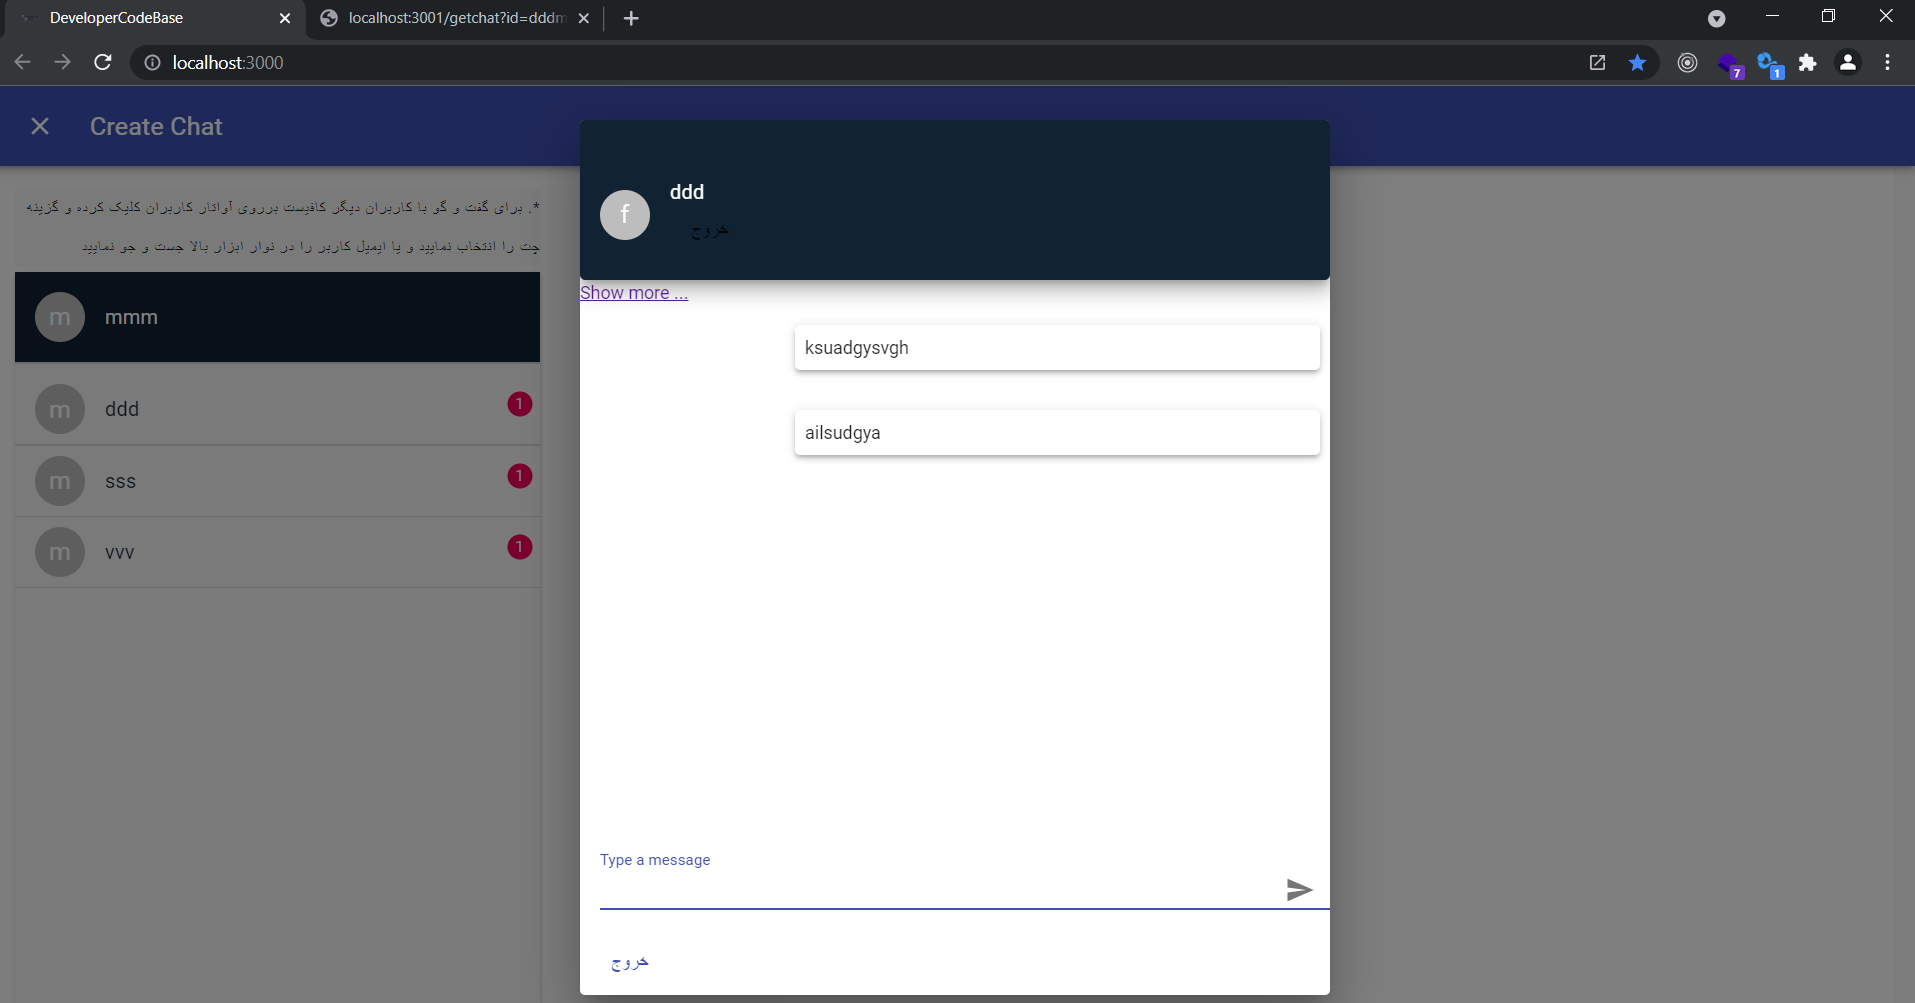
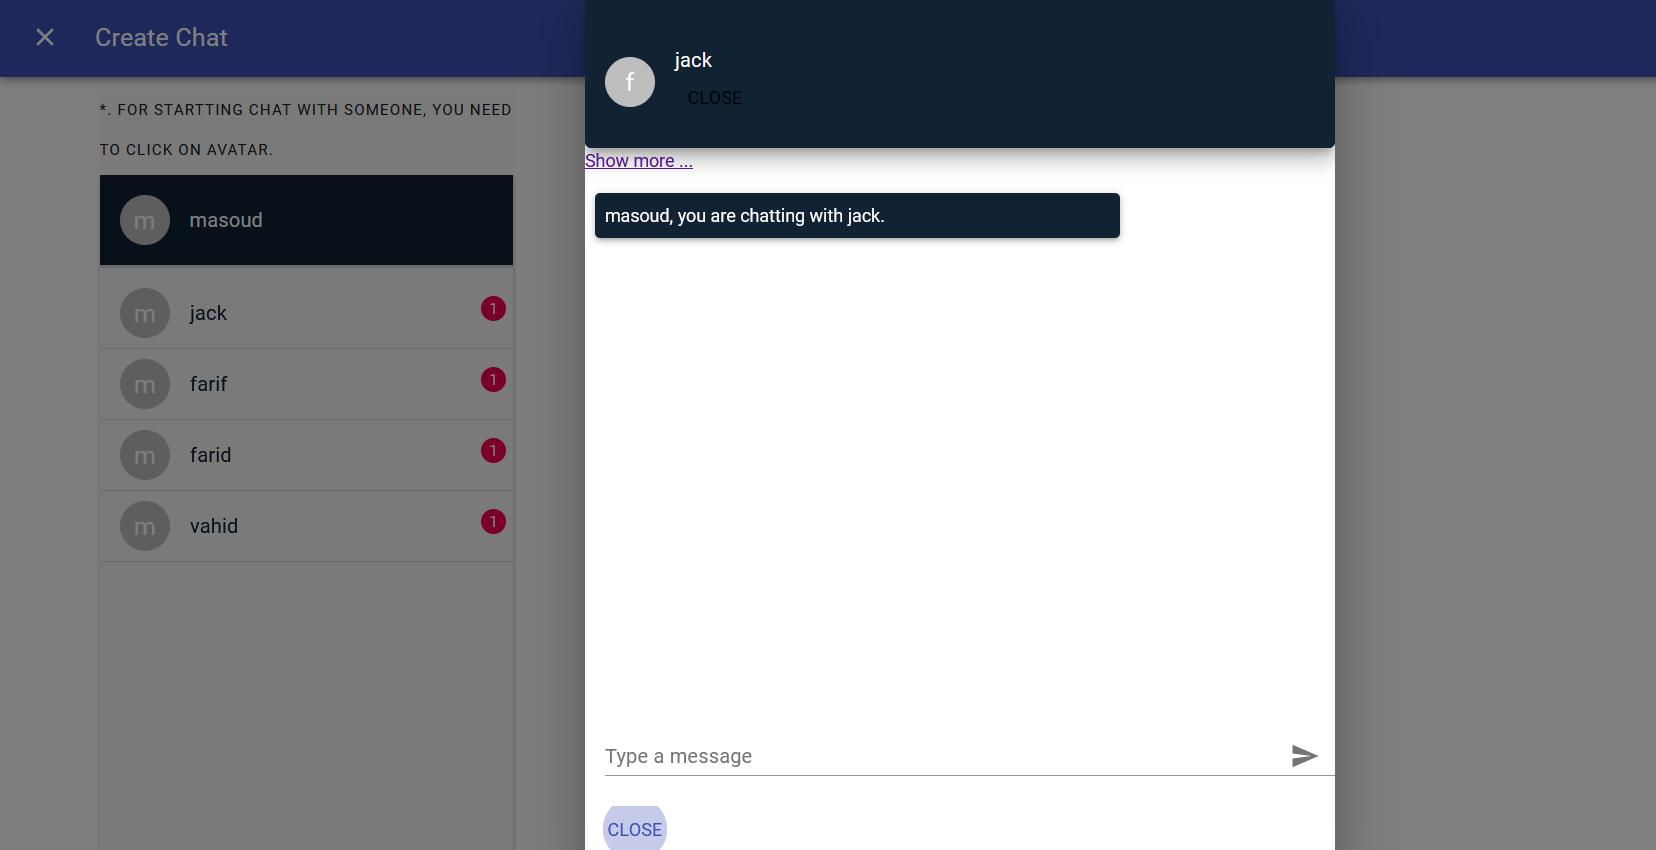
new commit right!

diff --git a/Chat-Frontend/src/components/ChatList.js b/Chat-Frontend/src/components/ChatList.js
@@ -187,11 +187,9 @@ export default function ChatList({ payload }) {
       {!progress && (
         <div>
           <div>
-            <div style={{ direction: "rtl" }} className={classes.typeSection}>
+            <div style={{ direction: "ltr" }} className={classes.typeSection}>
               <Typography variant="overline" display="block" gutterBottom>
-                *. برای گفت و گو با کاربران دیگر کافیست برروی آواتار کاربران
-                کلیک کرده و گزینه چت را انتخاب نمایید و یا ایمیل کاربر را در
-                نوار ابزار بالا جست و جو نمایید
+                *. For startting chat with someone, you need to click on avatar.
               </Typography>
             </div>
             <Grid container component={Paper} className={classes.chatSection}>

diff --git a/Chat-Frontend/src/components/Dialog/ChatDialog.js b/Chat-Frontend/src/components/Dialog/ChatDialog.js
@@ -324,7 +324,7 @@ function DialogChat({ open, setOpen, name, secondUser, room }) {
                 <ListItemText
                   primary={secondUser.split("@", 1)}
                   className={classes.font3}
-                  secondary={<Button onClick={handleClose}>خروج</Button>}
+                  secondary={<Button onClick={handleClose}>Close</Button>}
                 ></ListItemText>
               </ListItem>
             </List>
@@ -390,7 +390,7 @@ function DialogChat({ open, setOpen, name, secondUser, room }) {
         </DialogActions>
         <DialogActions style={{ justifyContent: "left" }}>
           <Button autoFocus onClick={handleClose} color="primary">
-            خروج
+            Close
           </Button>
           {/* <Button onClick={handleClose} color="primary">
             (this is a demo chat)

diff --git a/README.md b/README.md
@@ -1,16 +1,18 @@
 # This web app created by Masoud Bakhshi
 
+This a chat server with react js, node js and MongoDb, MySql for database.
+
 # React js
 
 just visit my webApp http://devcodebase.com
 
 # Using
 
-React js ,Node js, material-ui, sucket
+React js ,Node js, material-ui, sucket, MongoDb, MySql
 
 # How to run
 
-In this repository i upload both ui and server code and db server
+In this repository i upload both ui and server code, db server and Socket Server
 
 # Description
 
@@ -22,4 +24,4 @@ you need install node js , mysql ,mongodb
 
 # picture
 
-![chat-server](https://github.com/masoud-bakhshi/cryptocurrency/blob/main/crypto.jpg)
+![chat-server](https://github.com/masoud-bakhshi/chat-server/blob/main/chat-Server.png)

diff --git a/DBServer/README.md b/DBServer/README.md
@@ -1,16 +1,18 @@
 # This web app created by Masoud Bakhshi
 
+This a chat server with react js, node js and MongoDb, MySql for database.
+
 # React js
 
 just visit my webApp http://devcodebase.com
 
 # Using
 
-Node js, mongodb, mysql
+React js ,Node js, material-ui, sucket, MongoDb, MySql
 
 # How to run
 
-yarn, node index.js
+In this repository i upload both ui and server code, db server and Socket Server
 
 # Description
 
@@ -21,5 +23,3 @@ frontend is react js, server is socket server , DBServer is saving data into mys
 you need install node js , mysql ,mongodb
 
 # picture
-
-![chat-server](https://github.com/masoud-bakhshi/cryptocurrency/blob/main/crypto.jpg)

diff --git a/server/README.md b/server/README.md
@@ -1,16 +1,18 @@
 # This web app created by Masoud Bakhshi
 
+This a chat server with react js, node js and MongoDb, MySql for database.
+
 # React js
 
 just visit my webApp http://devcodebase.com
 
 # Using
 
-Node js, sucket
+React js ,Node js, material-ui, sucket, MongoDb, MySql
 
 # How to run
 
-yarn, node index.js
+In this repository i upload both ui and server code, db server and Socket Server
 
 # Description
 
@@ -21,5 +23,3 @@ frontend is react js, server is socket server , DBServer is saving data into mys
 you need install node js , mysql ,mongodb
 
 # picture
-
-![chat-server](https://github.com/masoud-bakhshi/cryptocurrency/blob/main/crypto.jpg)
